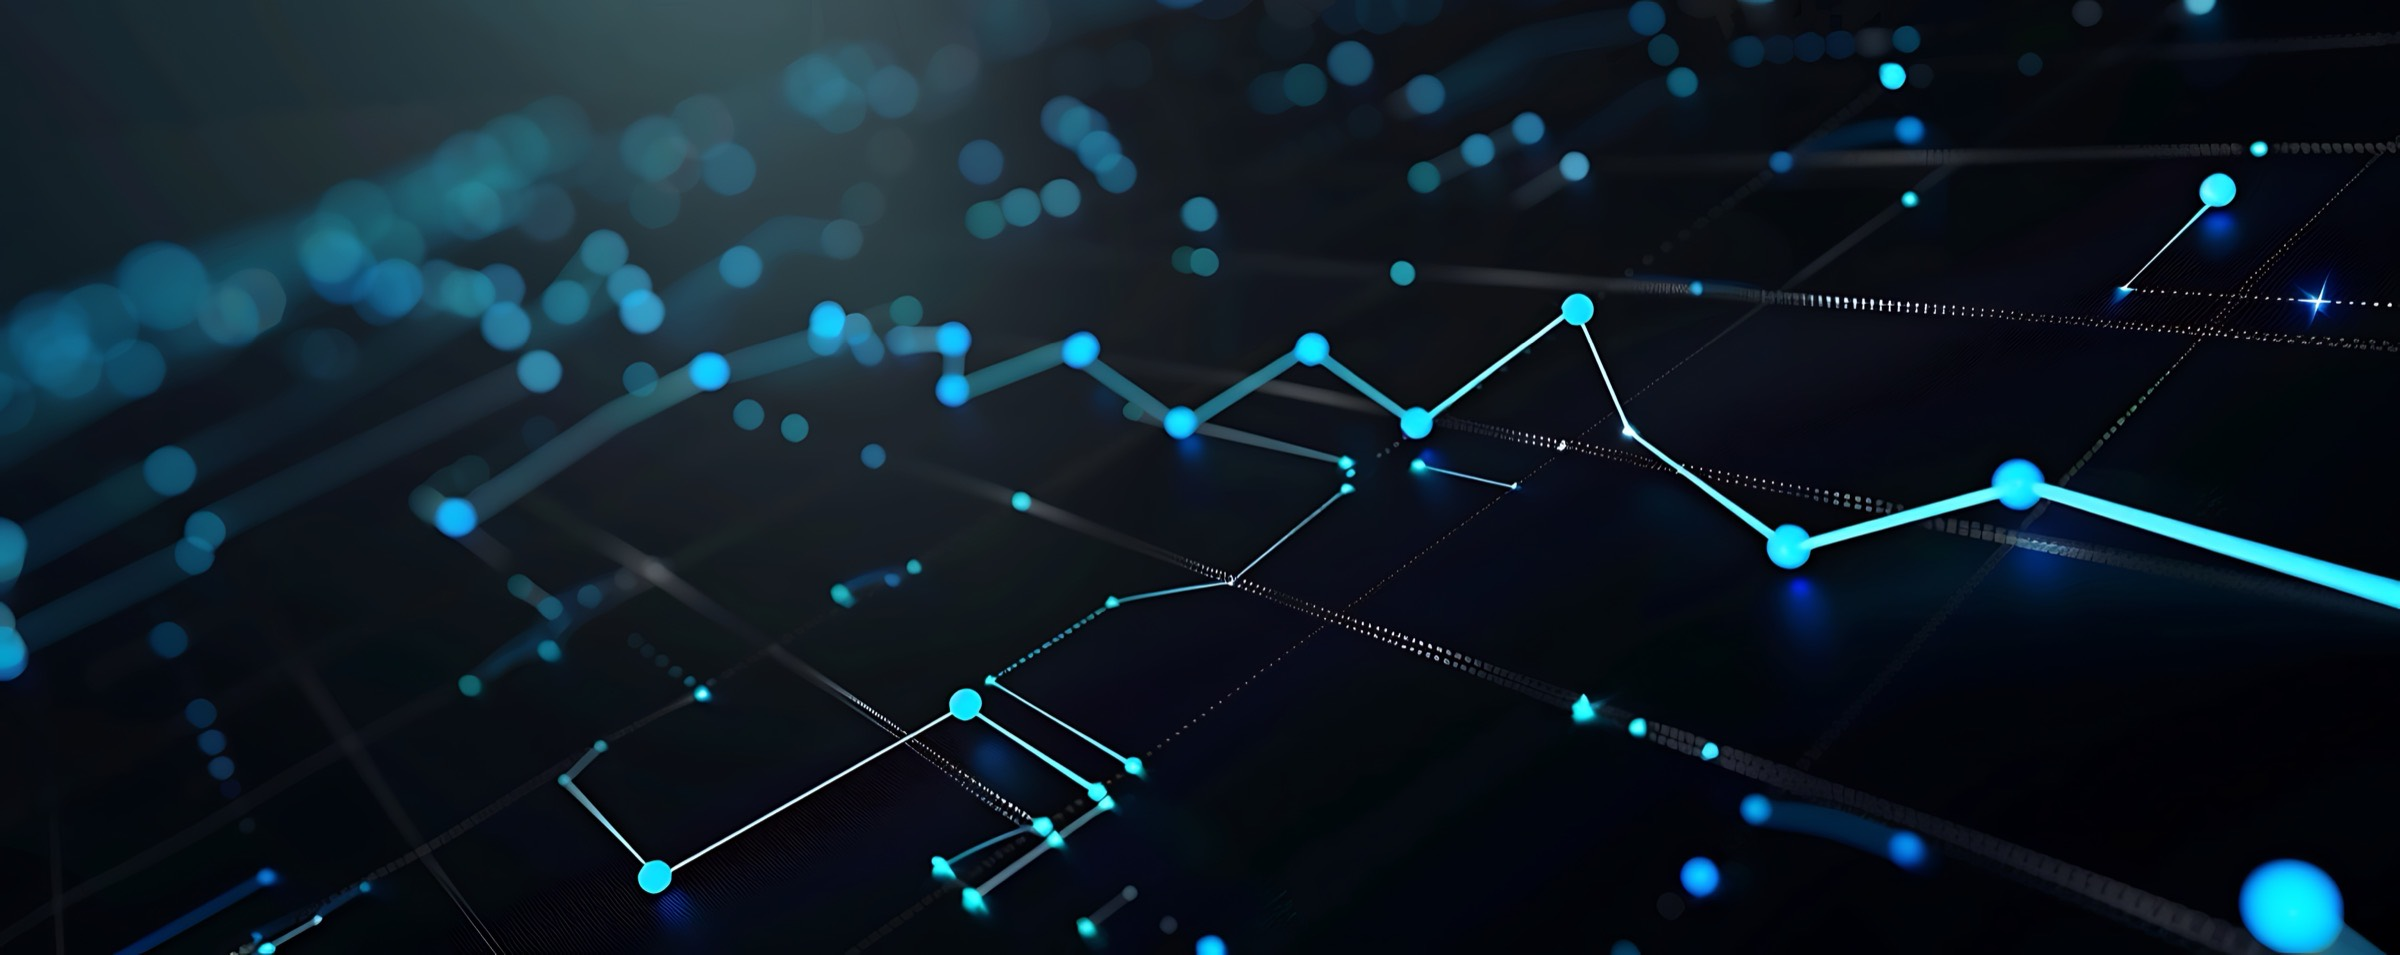
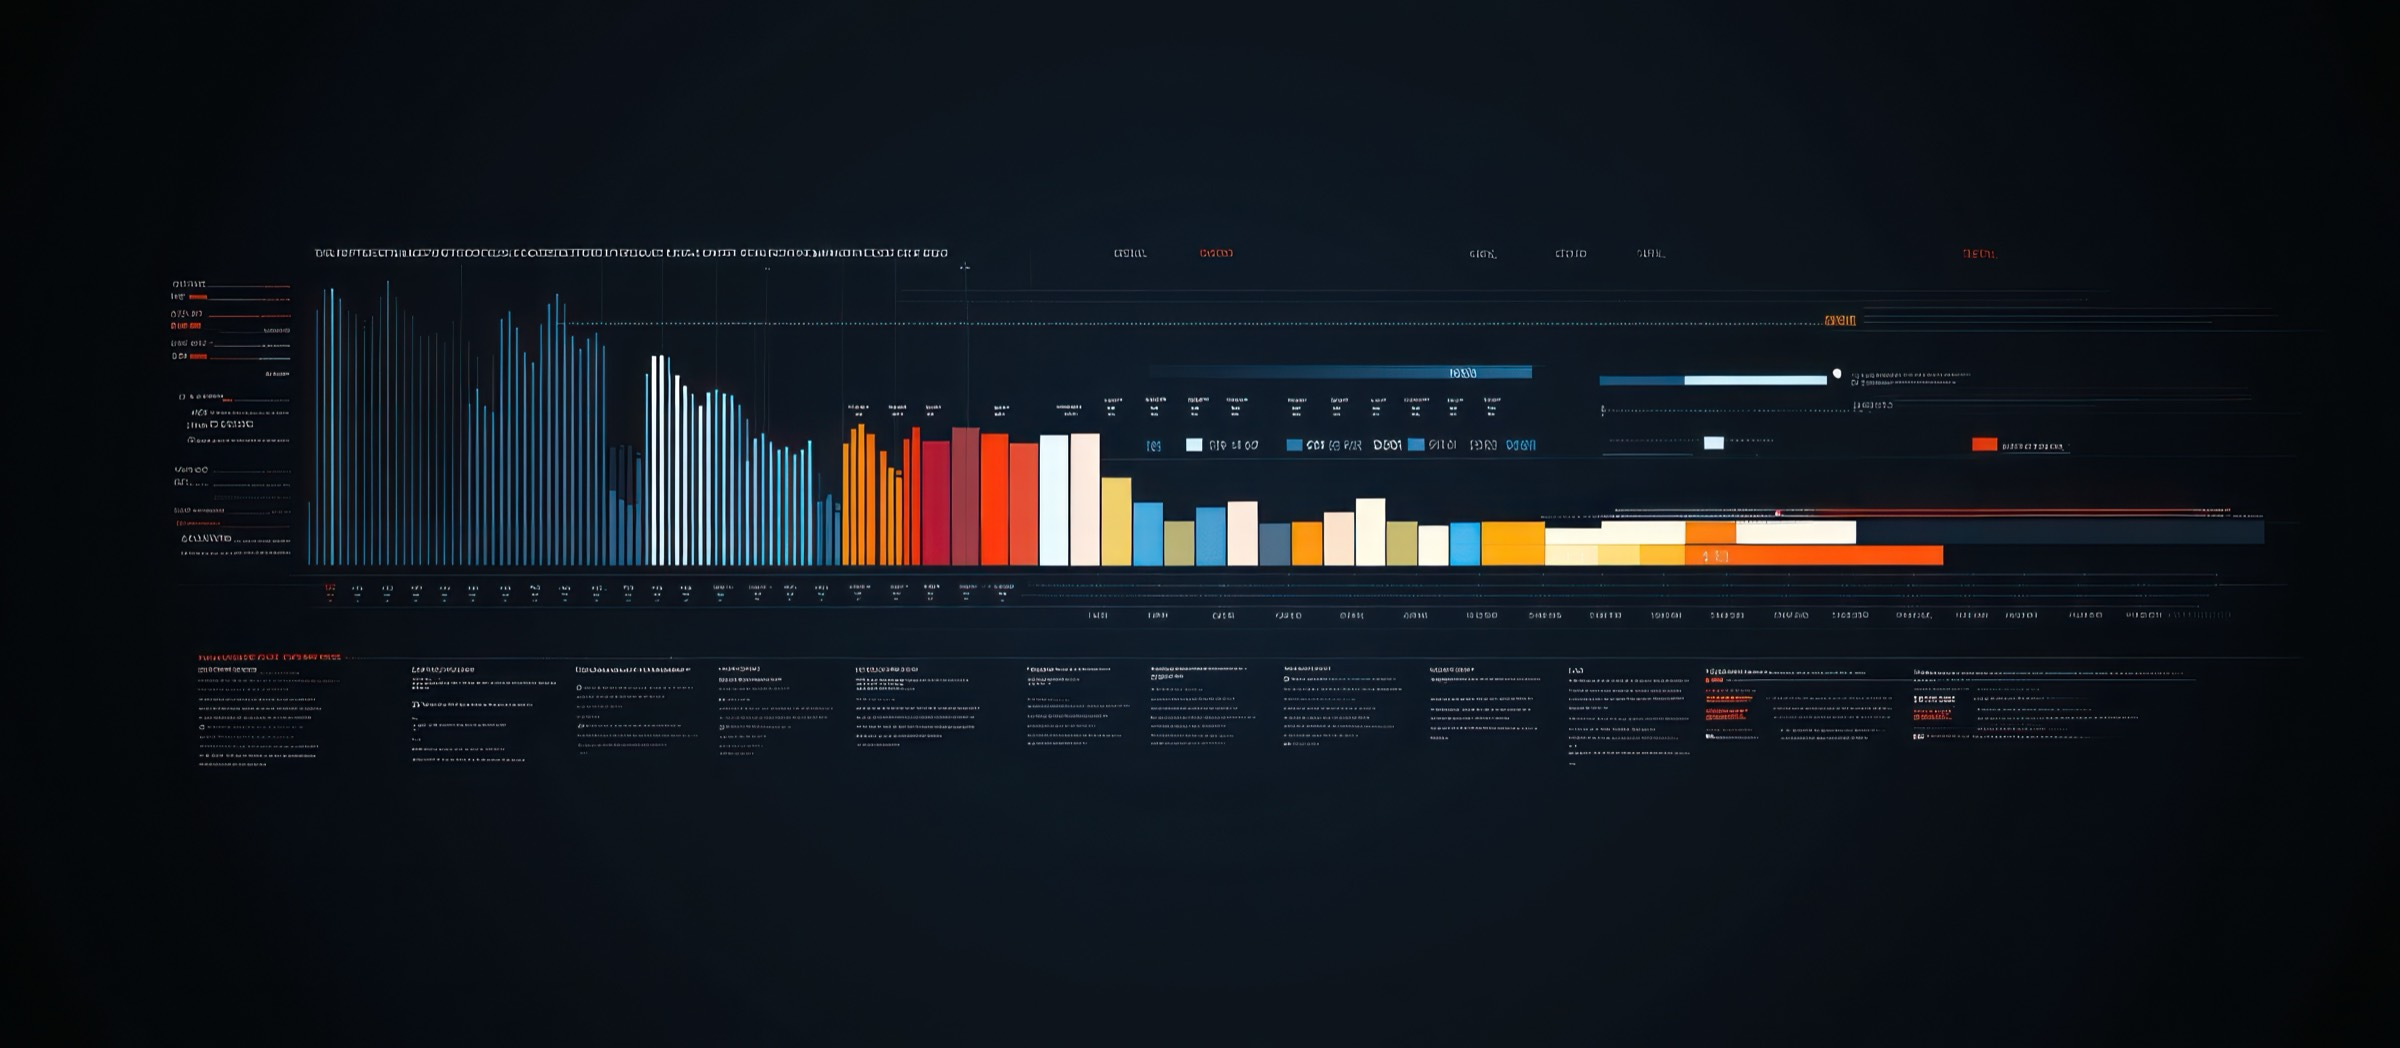
Cambiar el fondo del hero por un tablero de métricas
Las líneas abstractas anteriores no decían de qué trata el producto. La
nueva imagen muestra un tablero real de datos, con la mitad izquierda
casi vacía: justo donde va el titular.

El degradado pasa de diagonal a horizontal y baja de opacidad hacia la
derecha, para que el texto siga legible sobre fondo opaco y las gráficas
se vean por detrás en lugar de quedar tapadas.

diff --git a/src/pages/LearningAnalyticsLanding.tsx b/src/pages/LearningAnalyticsLanding.tsx
@@ -14,7 +14,7 @@ import { Layout } from '../components/layout/Layout'
 
 const CONTACT_EMAIL = 'proyectos@algoritmot.com'
 
-/** Fondo del hero. Optimizado a 2400 px: 203 KB frente a los 4,3 MB del original. */
+/** Fondo del hero. Optimizado a 2400 px: 236 KB frente a los 2,5 MB del original. */
 const HERO_IMAGE = '/images/learning-analytics-hero.jpg'
 
 const FREE_FEATURES = [
@@ -95,7 +95,7 @@ export function LearningAnalyticsLanding() {
           aria-hidden="true"
         />
         <div
-          className="absolute inset-0 bg-gradient-to-br from-slate-950/95 via-slate-900/85 to-indigo-950/80"
+          className="absolute inset-0 bg-gradient-to-r from-slate-950/95 via-slate-950/75 to-indigo-950/60"
           aria-hidden="true"
         />
 
